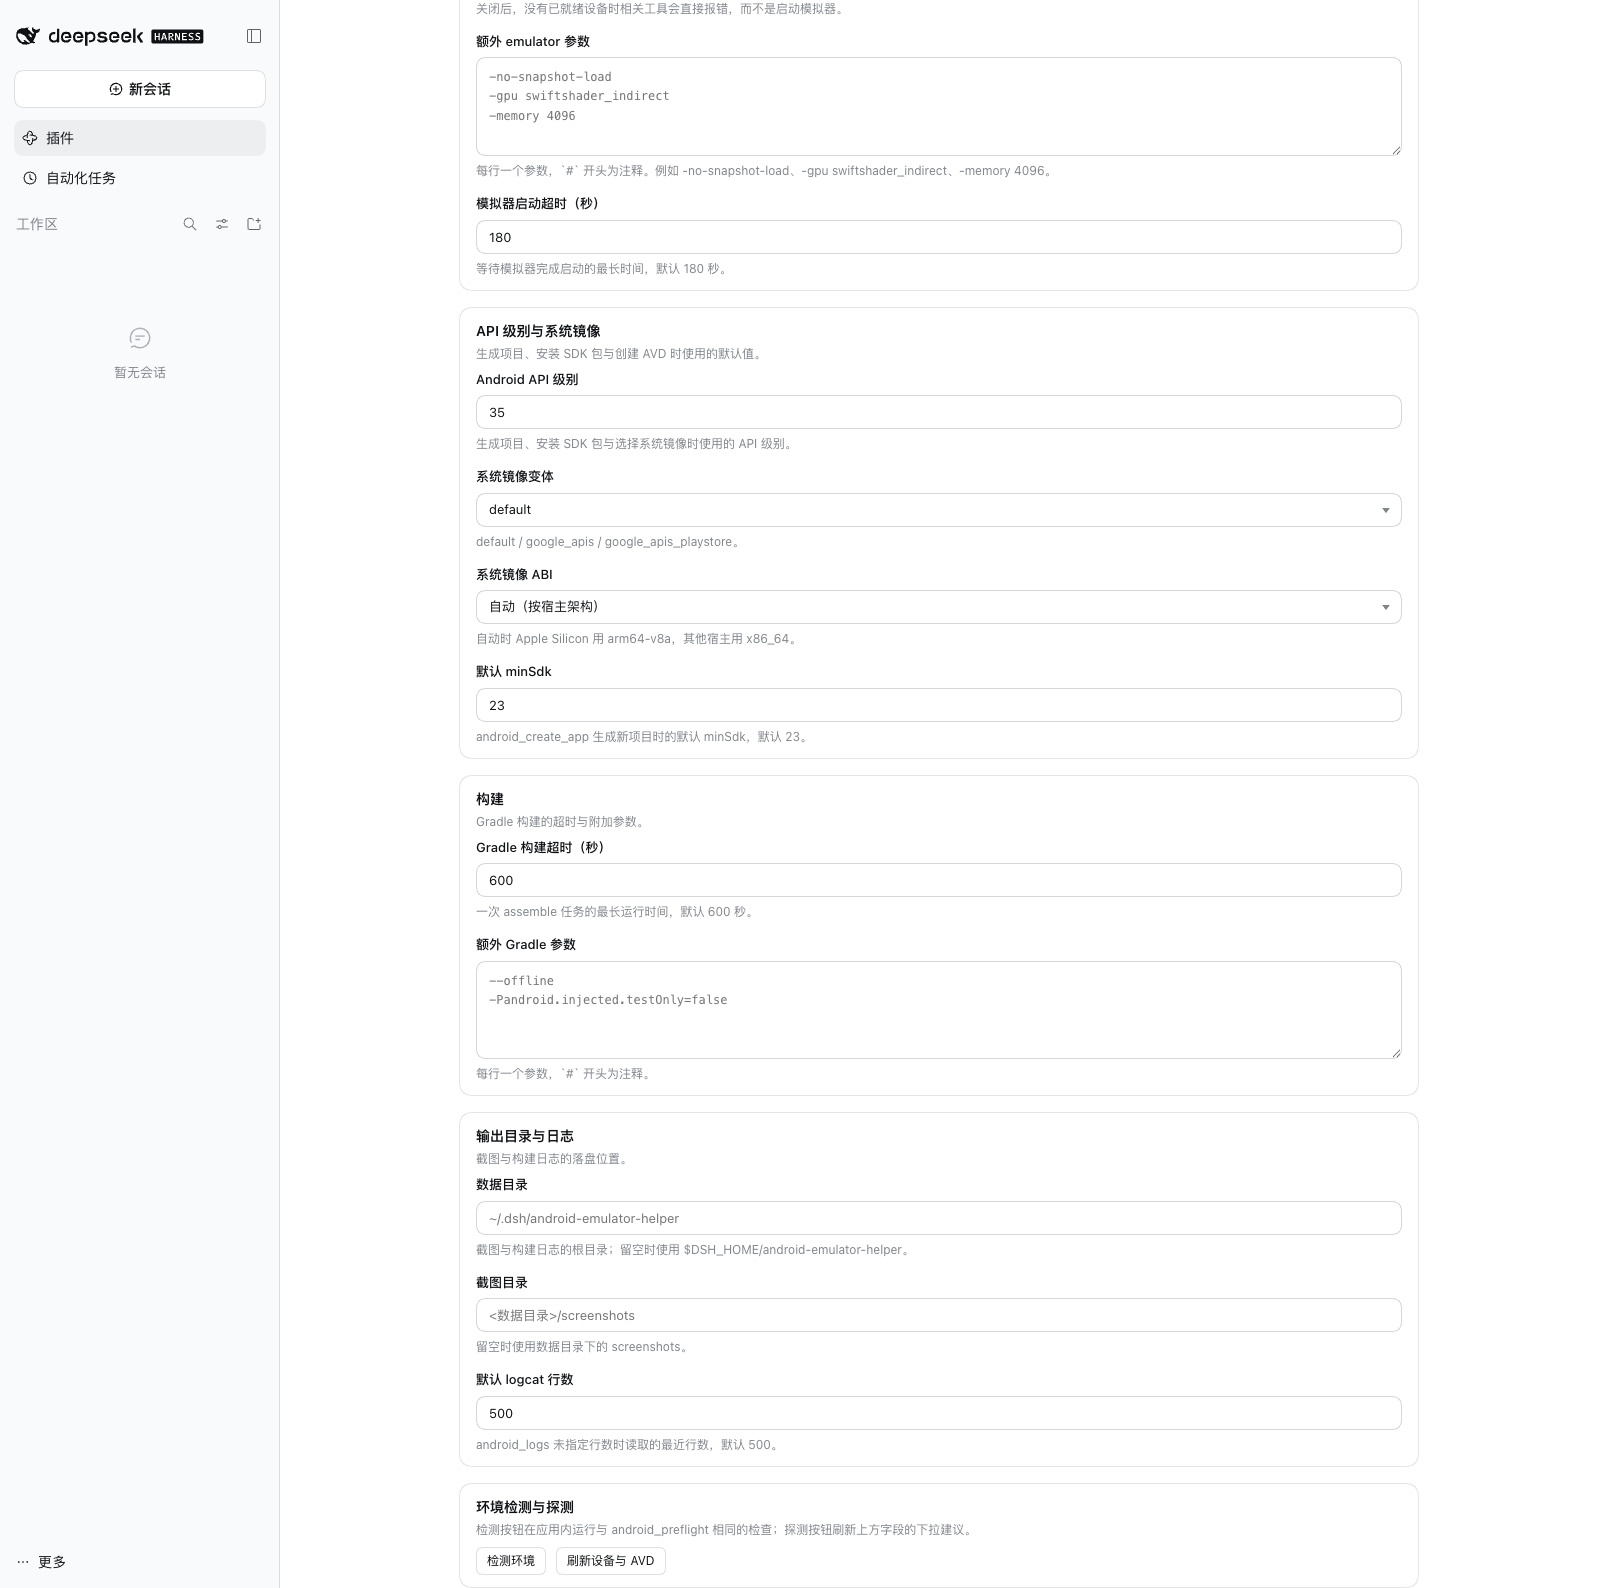
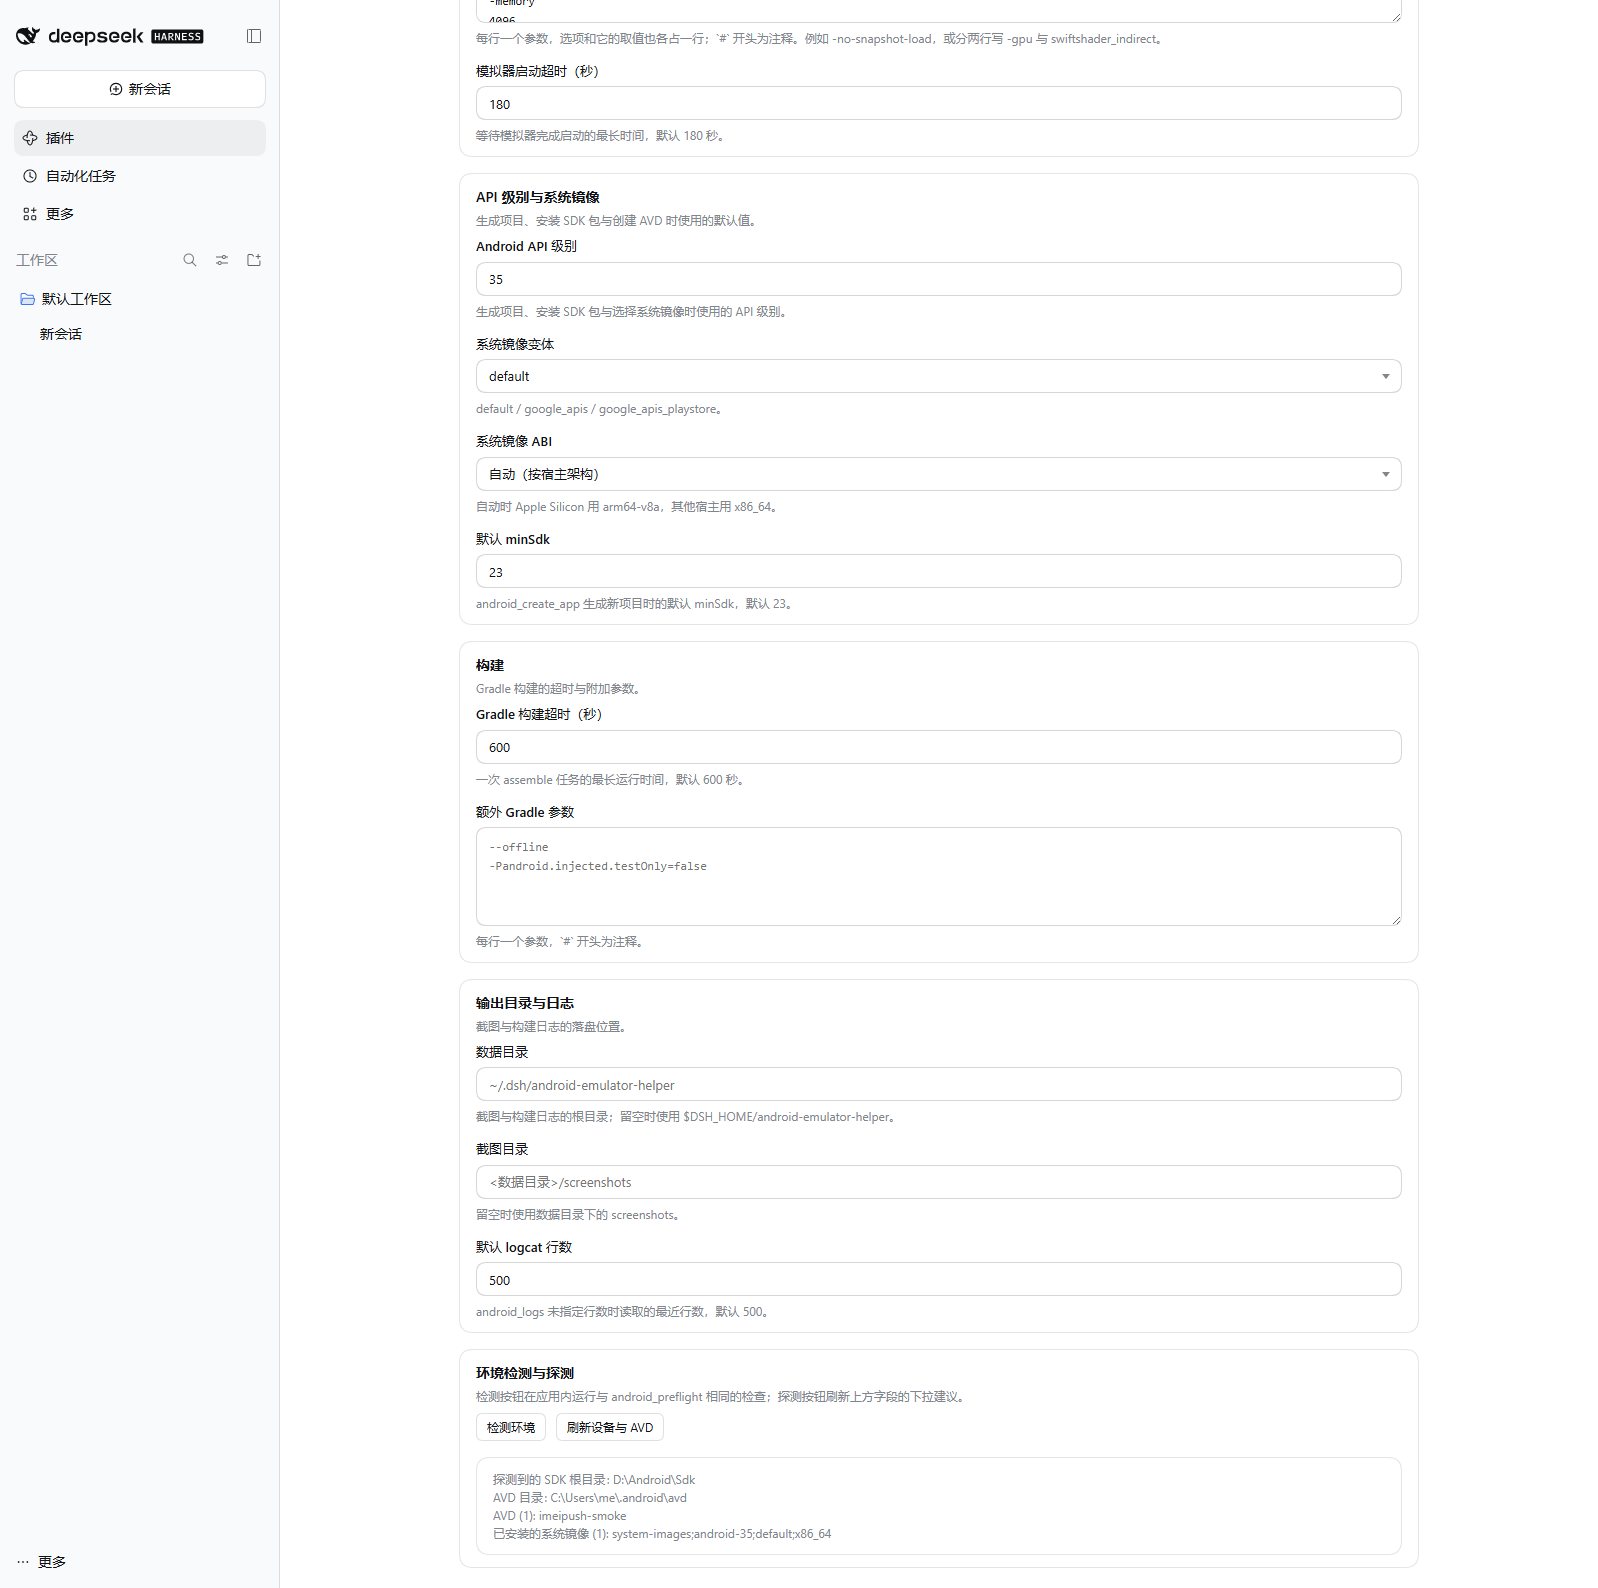
docs: refresh the four gallery screenshots
The gallery still showed the page as v1.1.3 in DSH harness 0.2.1-rc.2,
but the plugin detail page now carries v1.2.0, the shared settings form
marks a field whose value is not the declared default with an override
badge and a reset control, and the diagnostics card shows the discovery
result it loads on open. Re-captured the four shots from an isolated DSH
0.2.1-rc.3 instance, at 1598 × 1588 and in the same Chinese locale and
scroll order, and replaced the files the market reads.

Both READMEs now name 0.2.1-rc.3, describe the override badge and the
discovery result, and their shot descriptions match what the images
actually show.

Verified with `pnpm run check`: 357 tests (348 passed, 9 skipped), the
bundle gate, the real ToolRuntime mount and both type gates.

diff --git a/README.md b/README.md
@@ -127,40 +127,45 @@ The original plugin's `userConfig` — the seven variables in the last column ab
 
 ## Screenshots
 
-All four are the live page in DSH harness 0.2.1-rc.2, in the order you scroll it
+All four are the live page in DSH harness 0.2.1-rc.3, in the order you scroll it
 — nothing is mocked up. They are 1598 × 1588 PNGs of the tightened card rhythm
 (7px above and below a field, a `12px 16px` card, 16px between cards), captured
 in the Chinese locale with the **Plugins** panel open on the plugin's own detail
 page: the first shot opens on the plugin's title **Android 模拟器助手** and
 description, the sidebar shows **插件** selected, and the field keys in the table
-above are the same in either language. Grey text is a placeholder standing in for a field left empty,
-and the sticky save bar appears only while an edit is staged, so it is not in
-these shots.
+above are the same in either language. Grey text is a placeholder standing in
+for a field left empty, a field carrying a value other than its declared default
+shows an override badge and a reset control, and the sticky save bar appears
+only while an edit is staged, so it is not in these shots.
 
 **1. SDK and toolchain** — the page opens with the plugin's title, package name
 and description, then the SDK root, JDK major version and build-tools version
-every `android_*` call resolves first, and the emulator-and-devices card down to
-its boot timeout:
+every `android_*` call resolves first, the emulator-and-devices card down to its
+boot timeout, and the start of the API-level card:
 
-![The Android Emulator Helper page in the Plugins panel of DSH: the plugin title and description, then the SDK and toolchain card with the Android SDK root, JDK major version and build-tools version, then the emulator-and-devices card down to the boot timeout](https://raw.githubusercontent.com/zhz8888/dsh-android-emulator-helper/main/assets/settings-page-1-sdk-and-toolchain.png)
+![The Android Emulator Helper page in the Plugins panel of DSH: the plugin title and description, then the SDK and toolchain card with the Android SDK root, JDK major version and build-tools version, then the emulator-and-devices card down to the boot timeout and the start of the API-level card](https://raw.githubusercontent.com/zhz8888/dsh-android-emulator-helper/main/assets/settings-page-1-sdk-and-toolchain.png)
 
-**2. Emulator and devices** — which device a call talks to and how an emulator is
-started: the default AVD, the default serial, the auto-start switch, the extra
-`emulator` arguments and the boot timeout, then the API-level card:
+**2. Emulator and devices** — the page scrolled by one card: the SDK-and-toolchain
+card from its heading, then the emulator-and-devices card — the default AVD, the
+default serial, the auto-start switch, the extra `emulator` arguments and the
+boot timeout — then the API-level card and the start of the build card:
 
-![The page scrolled to the emulator-and-devices card: default AVD, default device serial, the auto-start emulator switch, the extra emulator arguments and the boot timeout, then the API-level card starting at the Android API level](https://raw.githubusercontent.com/zhz8888/dsh-android-emulator-helper/main/assets/settings-page-2-emulator-and-devices.png)
+![The page scrolled by one card: the SDK-and-toolchain card from its heading, then the emulator-and-devices card with the default AVD, default device serial, the auto-start emulator switch, the extra emulator arguments and the boot timeout, then the API-level card and the start of the build card](https://raw.githubusercontent.com/zhz8888/dsh-android-emulator-helper/main/assets/settings-page-2-emulator-and-devices.png)
 
-**3. API level and build** — what a generated project and an installed system
-image target, the `gradle` timeout and extra arguments, then the top of the
-output card:
+**3. API level and build** — the page scrolled further: the emulator-and-devices
+card from its heading, then the API-level-and-system-image card with the system
+image variant, ABI and default minSdk, the build card with the Gradle build
+timeout and the extra Gradle arguments, then the top of the output card:
 
-![The page scrolled further: the API-level-and-system-image card with the system image variant, ABI and default minSdk, the build card with the Gradle build timeout and the extra Gradle arguments, then the output card starting at the data directory](https://raw.githubusercontent.com/zhz8888/dsh-android-emulator-helper/main/assets/settings-page-3-api-and-build.png)
+![The page scrolled further: the emulator-and-devices card from its heading, then the API-level-and-system-image card with the system image variant, ABI and default minSdk, the build card with the Gradle build timeout and the extra Gradle arguments, then the top of the output card](https://raw.githubusercontent.com/zhz8888/dsh-android-emulator-helper/main/assets/settings-page-3-api-and-build.png)
 
 **4. Output and diagnostics** — where screenshots and build logs land, then the
-two buttons backing the page, next to the Fetch routes above; the shot ends where
-the plugin's form section ends:
+diagnostics-and-discovery card: the two buttons backing the page, next to the
+Fetch routes above, and the discovery result it fills in — the detected SDK
+root, AVD home, AVDs and installed system images. The shot ends where the
+plugin's form section ends:
 
-![The bottom of the form: the output-and-logs card with the data directory, screenshot directory and default logcat line count, then the diagnostics-and-discovery card with the run-diagnostic and refresh-devices buttons](https://raw.githubusercontent.com/zhz8888/dsh-android-emulator-helper/main/assets/settings-page-4-output-and-diagnostics.png)
+![The bottom of the form: the output-and-logs card with the data directory, screenshot directory and default logcat line count, then the diagnostics-and-discovery card with the run-diagnostic and refresh-devices buttons and the discovery result listing the detected SDK root, AVD home, AVDs and installed system images](https://raw.githubusercontent.com/zhz8888/dsh-android-emulator-helper/main/assets/settings-page-4-output-and-diagnostics.png)
 
 `screenshots.json` lists these four files in this order next to `package.json` in
 the repository, which is how a plugin market finds them.

diff --git a/README.zh-CN.md b/README.zh-CN.md
@@ -127,23 +127,23 @@ dsh plugin --profile <profile> add @zhz8888/dsh-android-emulator-helper \
 
 ## 配置页截图
 
-四张都是 DSH harness 0.2.1-rc.2 里真实页面按滚动顺序的实拍，没有任何拼凑。1598 × 1588 PNG，对应收紧后的卡片节奏（每个字段上下各 7px，卡片 `12px 16px`，卡片之间 16px）；截图时是中文语言，**插件** 面板停留在该插件的详情页：第一张从插件标题 **Android 模拟器助手** 与描述开始，侧边栏高亮 **插件**，而上表里的字段 key 两种语言下完全一致。灰色文字是留空字段的占位提示；底部保存条只在有改动待保存时出现，因此这几张图里没有它。
+四张都是 DSH harness 0.2.1-rc.3 里真实页面按滚动顺序的实拍，没有任何拼凑。1598 × 1588 PNG，对应收紧后的卡片节奏（每个字段上下各 7px，卡片 `12px 16px`，卡片之间 16px）；截图时是中文语言，**插件** 面板停留在该插件的详情页：第一张从插件标题 **Android 模拟器助手** 与描述开始，侧边栏高亮 **插件**，而上表里的字段 key 两种语言下完全一致。灰色文字是留空字段的占位提示；取值不同于内置默认值的字段会显示已覆盖标记与恢复默认入口；底部保存条只在有改动待保存时出现，因此这几张图里没有它。
 
-**1. SDK 与工具链** —— 页面开头是插件标题、包名与描述，然后是每次 `android_*` 调用最先解析的 SDK 根目录、JDK 主版本与 build-tools 版本，以及模拟器与设备卡片直到启动超时：
+**1. SDK 与工具链** —— 页面开头是插件标题、包名与描述，然后是每次 `android_*` 调用最先解析的 SDK 根目录、JDK 主版本与 build-tools 版本，模拟器与设备卡片直到启动超时，以及 API 级别卡片的开头：
 
-![DSH 插件面板里的 Android 模拟器助手页：插件标题与描述，接着是 SDK 与工具链卡片里的 Android SDK 根目录、JDK 主版本与 Build-tools 版本，然后是模拟器与设备卡片直到启动超时](https://raw.githubusercontent.com/zhz8888/dsh-android-emulator-helper/main/assets/settings-page-1-sdk-and-toolchain.png)
+![DSH 插件面板里的 Android 模拟器助手页：插件标题与描述，接着是 SDK 与工具链卡片里的 Android SDK 根目录、JDK 主版本与 Build-tools 版本，然后是模拟器与设备卡片直到启动超时，以及 API 级别卡片的开头](https://raw.githubusercontent.com/zhz8888/dsh-android-emulator-helper/main/assets/settings-page-1-sdk-and-toolchain.png)
 
-**2. 模拟器与设备** —— 调用打到哪台设备、模拟器怎么起来：默认 AVD、默认设备序列号、自动启动开关、额外 `emulator` 参数与启动超时，然后是 API 级别卡片：
+**2. 模拟器与设备** —— 页面下滚一个卡片：从 SDK 与工具链卡片标题开始，接着是模拟器与设备卡片——默认 AVD、默认设备序列号、自动启动开关、额外 `emulator` 参数与启动超时——然后是 API 级别卡片与构建卡片的开头：
 
-![页面滚动到模拟器与设备卡片：默认 AVD、默认设备序列号、自动启动模拟器开关、额外 emulator 参数与模拟器启动超时，然后是 API 级别卡片开头的 Android API 级别](https://raw.githubusercontent.com/zhz8888/dsh-android-emulator-helper/main/assets/settings-page-2-emulator-and-devices.png)
+![页面下滚一个卡片：SDK 与工具链卡片标题，然后是模拟器与设备卡片里的默认 AVD、默认设备序列号、自动启动模拟器开关、额外 emulator 参数与模拟器启动超时，以及 API 级别卡片和构建卡片的开头](https://raw.githubusercontent.com/zhz8888/dsh-android-emulator-helper/main/assets/settings-page-2-emulator-and-devices.png)
 
-**3. API 级别与构建** —— 生成项目与安装系统镜像的目标、`gradle` 的超时与附加参数，然后是输出卡片的开头：
+**3. API 级别与构建** —— 页面继续下滚：从模拟器与设备卡片标题开始，然后是 API 级别与系统镜像卡片里的系统镜像变体、系统镜像 ABI 与默认 minSdk，构建卡片里的 Gradle 构建超时与额外 Gradle 参数，以及输出卡片开头：
 
-![页面继续向下滚动：API 级别与系统镜像卡片里的系统镜像变体、系统镜像 ABI 与默认 minSdk，构建卡片里的 Gradle 构建超时与额外 Gradle 参数，然后是输出卡片开头的数据目录](https://raw.githubusercontent.com/zhz8888/dsh-android-emulator-helper/main/assets/settings-page-3-api-and-build.png)
+![页面继续下滚：模拟器与设备卡片标题，然后是 API 级别与系统镜像卡片里的系统镜像变体、系统镜像 ABI 与默认 minSdk，构建卡片里的 Gradle 构建超时与额外 Gradle 参数，以及输出卡片开头](https://raw.githubusercontent.com/zhz8888/dsh-android-emulator-helper/main/assets/settings-page-3-api-and-build.png)
 
-**4. 输出目录与检测** —— 截图和构建日志落在哪里，以及支撑页面的两个按钮（对应上面的 Fetch 路由）；画面停在插件表单结束处：
+**4. 输出目录与检测** —— 截图和构建日志落在哪里，然后是环境检测与探测卡片：支撑页面的两个按钮（对应上面的 Fetch 路由），以及它填充的探测结果——探测到的 SDK 根目录、AVD 目录、AVD 与已安装系统镜像。画面停在插件表单结束处：
 
-![表单底部：输出目录与日志卡片里的数据目录、截图目录与默认 logcat 行数，然后是环境检测与探测卡片里的检测环境与刷新设备与 AVD 按钮](https://raw.githubusercontent.com/zhz8888/dsh-android-emulator-helper/main/assets/settings-page-4-output-and-diagnostics.png)
+![表单底部：输出目录与日志卡片里的数据目录、截图目录与默认 logcat 行数，然后是环境检测与探测卡片里的检测环境与刷新设备与 AVD 按钮，以及探测结果里的 SDK 根目录、AVD 目录、AVD 与已安装系统镜像](https://raw.githubusercontent.com/zhz8888/dsh-android-emulator-helper/main/assets/settings-page-4-output-and-diagnostics.png)
 
 `screenshots.json` 就在仓库里的 `package.json` 旁边按这个顺序列出四张图，插件市场据此展示。
 
